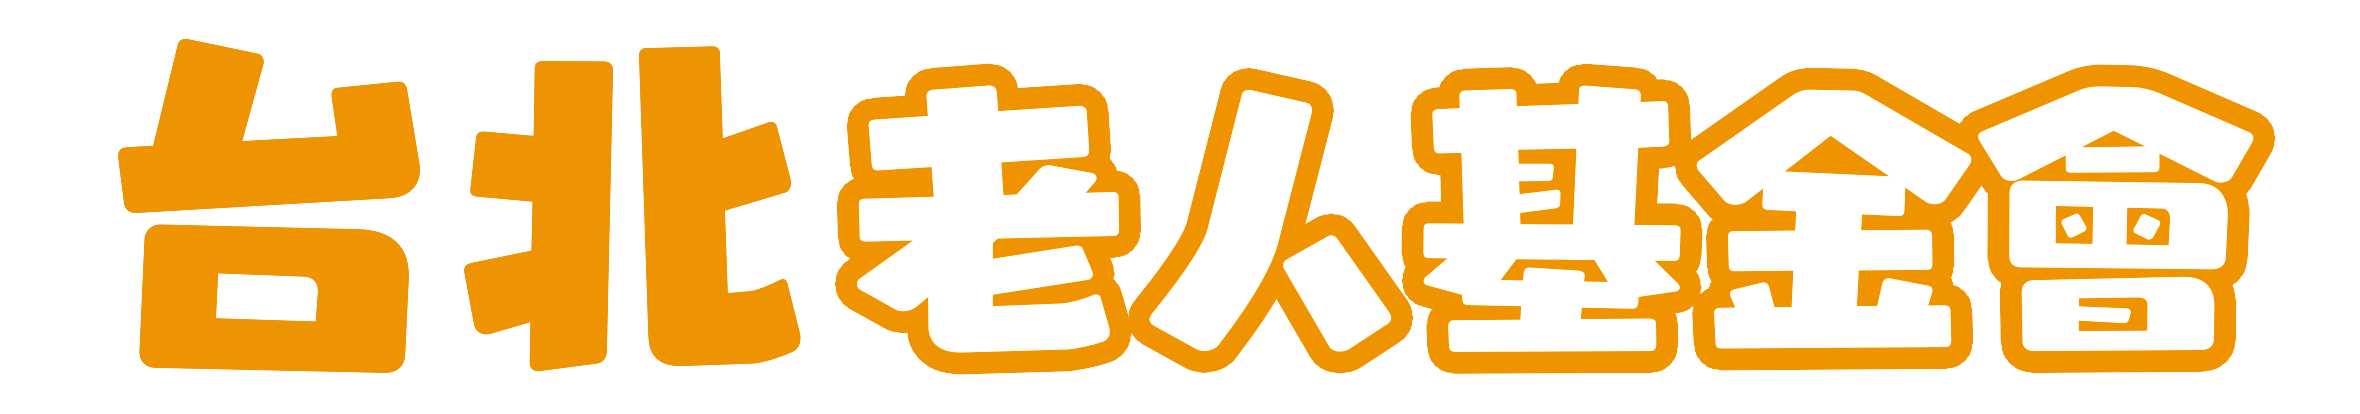
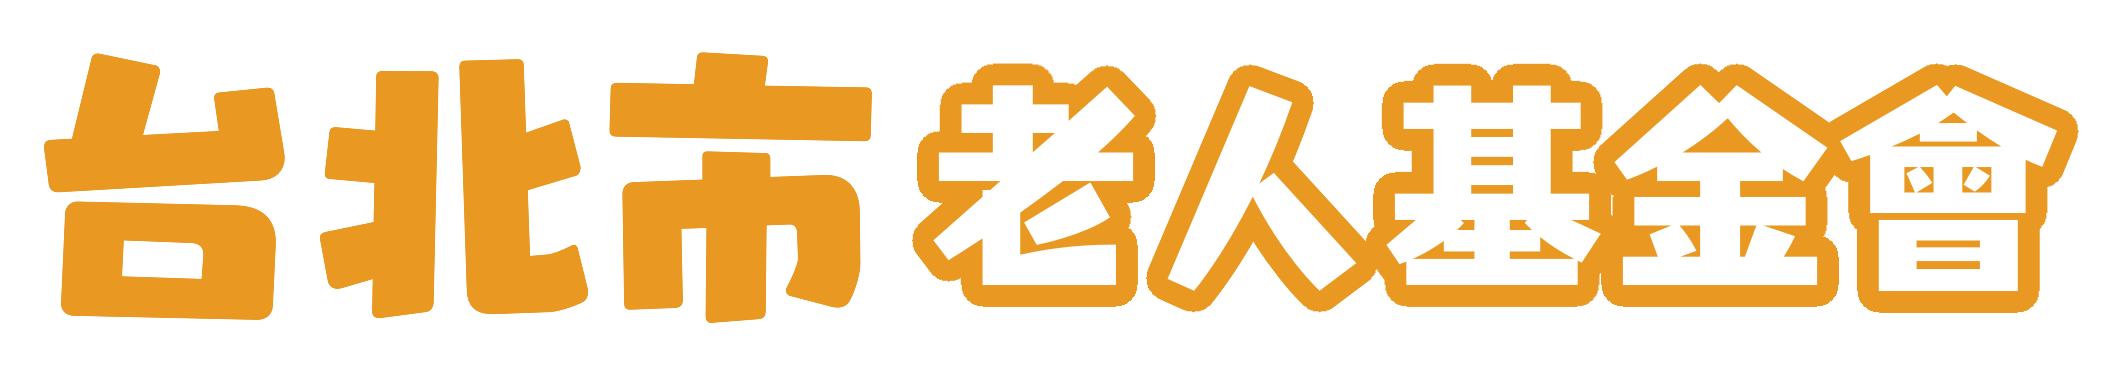
長照知識補給站

diff --git a/index.html b/index.html
@@ -552,74 +552,54 @@
 
     
 
-    <section class="site-section testimonial-wrap" id="testimonials-section">
-      <div class="container">
-        <div class="row mb-5">
-          <div class="col-12 text-center">
-            <h3 class="section-sub-title">People Says</h3>
-            <h2 class="section-title mb-3">Testimonials</h2>
-          </div>
-        </div>
-      </div>
-      <div class="slide-one-item home-slider owl-carousel">
-          <div>
-            <div class="testimonial">
-              
-              <blockquote class="mb-5">
-                <p>&ldquo;Lorem ipsum dolor sit amet consectetur adipisicing elit. Consectetur unde reprehenderit aperiam quaerat fugiat repudiandae explicabo animi minima fuga beatae illum eligendi incidunt consequatur. Amet dolores excepturi earum unde iusto.&rdquo;</p>
-              </blockquote>
-
-              <figure class="mb-4 d-flex align-items-center justify-content-center">
-                <div><img src="images/person_3.jpg" alt="Image" class="w-50 img-fluid mb-3"></div>
-                <p>John Smith</p>
-              </figure>
+        <section class="site-section testimonial-wrap" id="testimonials-section">
+          <div class="container">
+            <div class="row mb-5">
+              <div class="col-12 text-center">
+                <img src="images/長照知識.png" alt="長照知識補給站" class="logo-img2">
+              </div>
             </div>
           </div>
-          <div>
-            <div class="testimonial">
-
-              <blockquote class="mb-5">
-                <p>&ldquo;Lorem ipsum dolor sit amet consectetur adipisicing elit. Consectetur unde reprehenderit aperiam quaerat fugiat repudiandae explicabo animi minima fuga beatae illum eligendi incidunt consequatur. Amet dolores excepturi earum unde iusto.&rdquo;</p>
-              </blockquote>
-              <figure class="mb-4 d-flex align-items-center justify-content-center">
-                <div><img src="images/person_2.jpg" alt="Image" class="w-50 img-fluid mb-3"></div>
-                <p>Christine Aguilar</p>
-              </figure>
-              
+        
+          <div class="slide-one-item home-slider owl-carousel">
+            <div>
+              <div class="testimonial">
+                <div class="content-wrapper">
+                  <h2 style="color: #E99922;">什麼是長期照顧？</h2>
+                  <p>長期照顧是為了協助失能或失智者維持日常生活能力，<br>涵蓋照顧服務、醫療支持與家庭照顧者支援。</p>
+                </div>
+              </div>
+            </div>
+        
+            <div>
+              <div class="testimonial">
+                <div class="content-wrapper">
+                  <h2 style="color: #E99922;">誰可以申請長照服務？</h2>
+                  <p>凡設籍台灣，<br>年滿65歲以上失能長者、50歲以上失智症者、<br>或領有身心障礙證明者，皆可申請長照服務。</p>
+                </div>
+              </div>
+            </div>
+        
+            <div>
+              <div class="testimonial">
+                <div class="content-wrapper">
+                  <h2 style="color: #E99922;">長照2.0 有哪些服務？</h2>
+                  <p>包括居家服務、交通接送、喘息服務、<br>輔具租借與家庭照顧者支持等，<br>全方位照顧長者生活所需。</p>
+                </div>
+              </div>
+            </div>
+        
+            <div>
+              <div class="testimonial">
+                <div class="content-wrapper">
+                  <h2 style="color: #E99922;">申請流程會很複雜嗎？</h2>
+                  <p>不會，只需撥打1966長照專線，<br>由專人協助安排評估與後續服務。<br>也可洽地方政府的長照管理中心。</p>
+                </div>
+              </div>
             </div>
           </div>
-
-          <div>
-            <div class="testimonial">
-
-              <blockquote class="mb-5">
-                <p>&ldquo;Lorem ipsum dolor sit amet consectetur adipisicing elit. Consectetur unde reprehenderit aperiam quaerat fugiat repudiandae explicabo animi minima fuga beatae illum eligendi incidunt consequatur. Amet dolores excepturi earum unde iusto.&rdquo;</p>
-              </blockquote>
-              <figure class="mb-4 d-flex align-items-center justify-content-center">
-                <div><img src="images/person_4.jpg" alt="Image" class="w-50 img-fluid mb-3"></div>
-                <p>Robert Spears</p>
-              </figure>
-
-              
-            </div>
-          </div>
-
-          <div>
-            <div class="testimonial">
-
-              <blockquote class="mb-5">
-                <p>&ldquo;Lorem ipsum dolor sit amet consectetur adipisicing elit. Consectetur unde reprehenderit aperiam quaerat fugiat repudiandae explicabo animi minima fuga beatae illum eligendi incidunt consequatur. Amet dolores excepturi earum unde iusto.&rdquo;</p>
-              </blockquote>
-              <figure class="mb-4 d-flex align-items-center justify-content-center">
-                <div><img src="images/person_4.jpg" alt="Image" class="w-50 img-fluid mb-3"></div>
-                <p>Bruce Rogers</p>
-              </figure>
-
-            </div>
-          </div>
-
-        </div>
-    </section>
+        </section>
+        
 
     <section class="container my-5 py-5"  id="Donate-section">
       <div style="height: 100px;"></div>

diff --git a/css/style.css b/css/style.css
@@ -31,6 +31,12 @@ header {
   height: auto;
   margin-left: 0;}
 
+.logo-img2 {
+  width: 450px;
+  height: auto;
+  margin-left: 0;}
+}
+
 .logo-container {
   display: flex;
   align-items: center;
@@ -176,6 +182,49 @@ p.mb-5 {
   background-color: #E99922 !important; /* 滑鼠移過去變黃色 */
   color: #FFF !important;
 }
+
+.testimonial {
+  background-color: #f9f5f0;
+  min-height: 300px;
+  padding: 30px 25px;
+  border-radius: 15px;
+  box-shadow: 0 4px 12px rgba(0, 0, 0, 0.1);
+  display: flex;
+  justify-content: center;
+  align-items: center;
+  text-align: center;
+}
+
+.testimonial .content-wrapper {
+  display: flex;
+  flex-direction: column;
+  justify-content: center;
+}
+
+
+.testimonial h2 {
+  font-size: 1.75rem;
+  margin-bottom: 15px;
+  line-height: 1.4;
+}
+
+.testimonial p {
+  font-size: 1.25rem;
+  color: #514d47;
+  line-height: 1.8;
+  word-break: break-word;
+}
+
+/* 調整整體 slide 高度與上下區塊距離 */
+.testimonial-wrap {
+  padding-bottom: 40px;
+  margin-bottom: 30px;
+}
+
+.home-slider .owl-stage-outer {
+  padding-bottom: 10px;
+}
+
 
 a {
   -webkit-transition: .3s all ease;
@@ -1262,7 +1311,7 @@ h1, h2, h3, h4, h5,
     position: absolute;
     width: 30px;
     height: 30px;
-    background: #46ddb0;
+    background: #e99922;
     border-radius: 50%;
     color: #fff; }
     .player .team-number > span {
@@ -1297,7 +1346,7 @@ h1, h2, h3, h4, h5,
     border-radius: 50%;
     border: 1px solid #ccc; }
   .site-block-27 ul li.active a, .site-block-27 ul li.active span {
-    background: #46ddb0;
+    background: #e99922;
     color: #fff;
     border: 1px solid transparent; }
 
@@ -1429,7 +1478,7 @@ h1, h2, h3, h4, h5,
       transform: translate(-50%, -50%); }
 
 .free-quote {
-  background: #30d9a7; }
+  background: #e99922; }
   .free-quote .form-control {
     border: 2px solid rgba(255, 255, 255, 0.5);
     background: none;
@@ -1559,7 +1608,7 @@ h1, h2, h3, h4, h5,
   line-height: 40px;
   border-radius: 50%;
   display: inline-block;
-  background: #46ddb0;
+  background: #e99922;
   color: #fff; }
 
 .custom-pagination span {
@@ -1618,7 +1667,7 @@ h1, h2, h3, h4, h5,
     -o-transition: .1s all ease;
     transition: .1s all ease; }
   .popular-category:hover {
-    background: #46ddb0;
+    background: #e99922;
     -webkit-box-shadow: 0 5px 30px -5px rgba(70, 221, 176, 0.5);
     box-shadow: 0 5px 30px -5px rgba(70, 221, 176, 0.5); }
     .popular-category:hover .caption {
@@ -1669,7 +1718,7 @@ h1, h2, h3, h4, h5,
       font-size: 12px;
       display: inline-block;
       padding: 5px 30px;
-      background: #46ddb0;
+      background: #e99922;
       border-radius: 30px;
       color: #fff;
       letter-spacing: .2em;
@@ -1707,7 +1756,7 @@ h1, h2, h3, h4, h5,
         color: #fff; }
 
 .accordion-item[aria-expanded="true"] {
-  color: #46ddb0; }
+  color: #e99922; }
 
 .social-media {
   display: inline-block;
